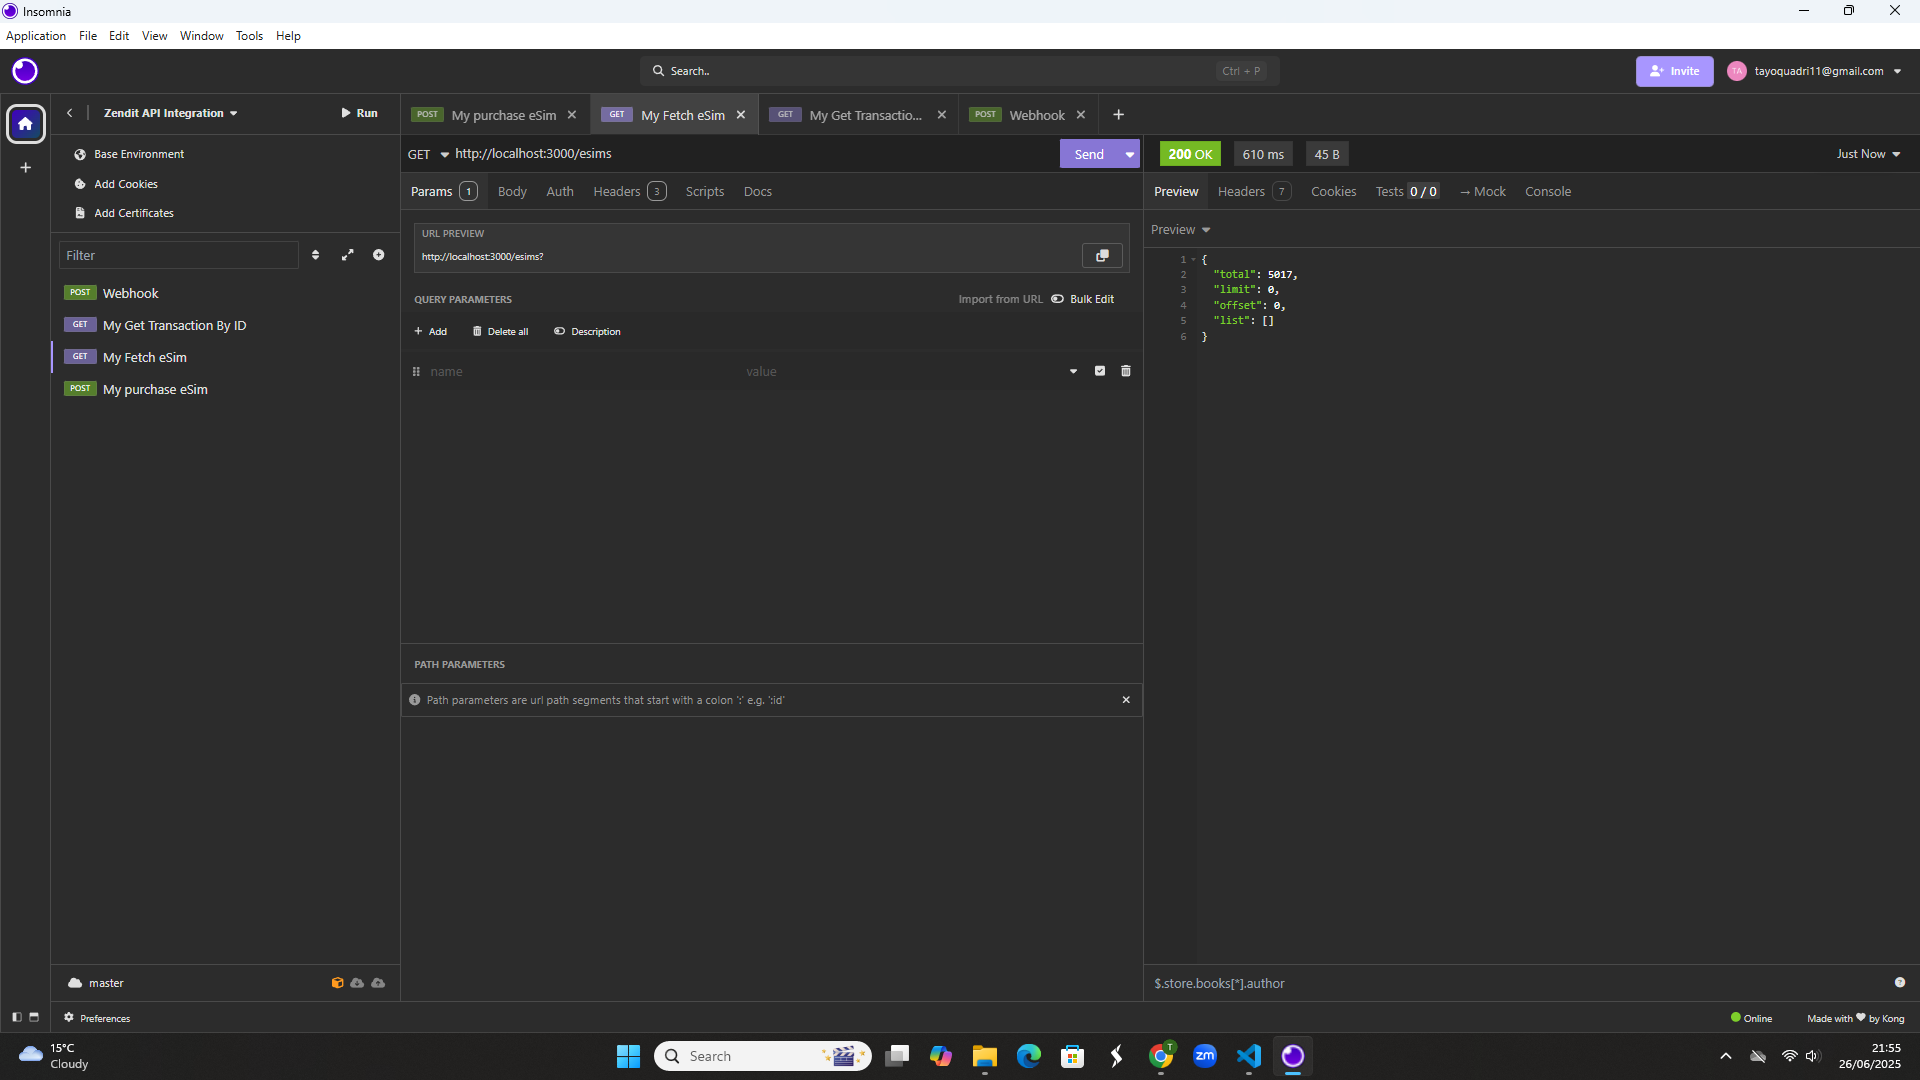
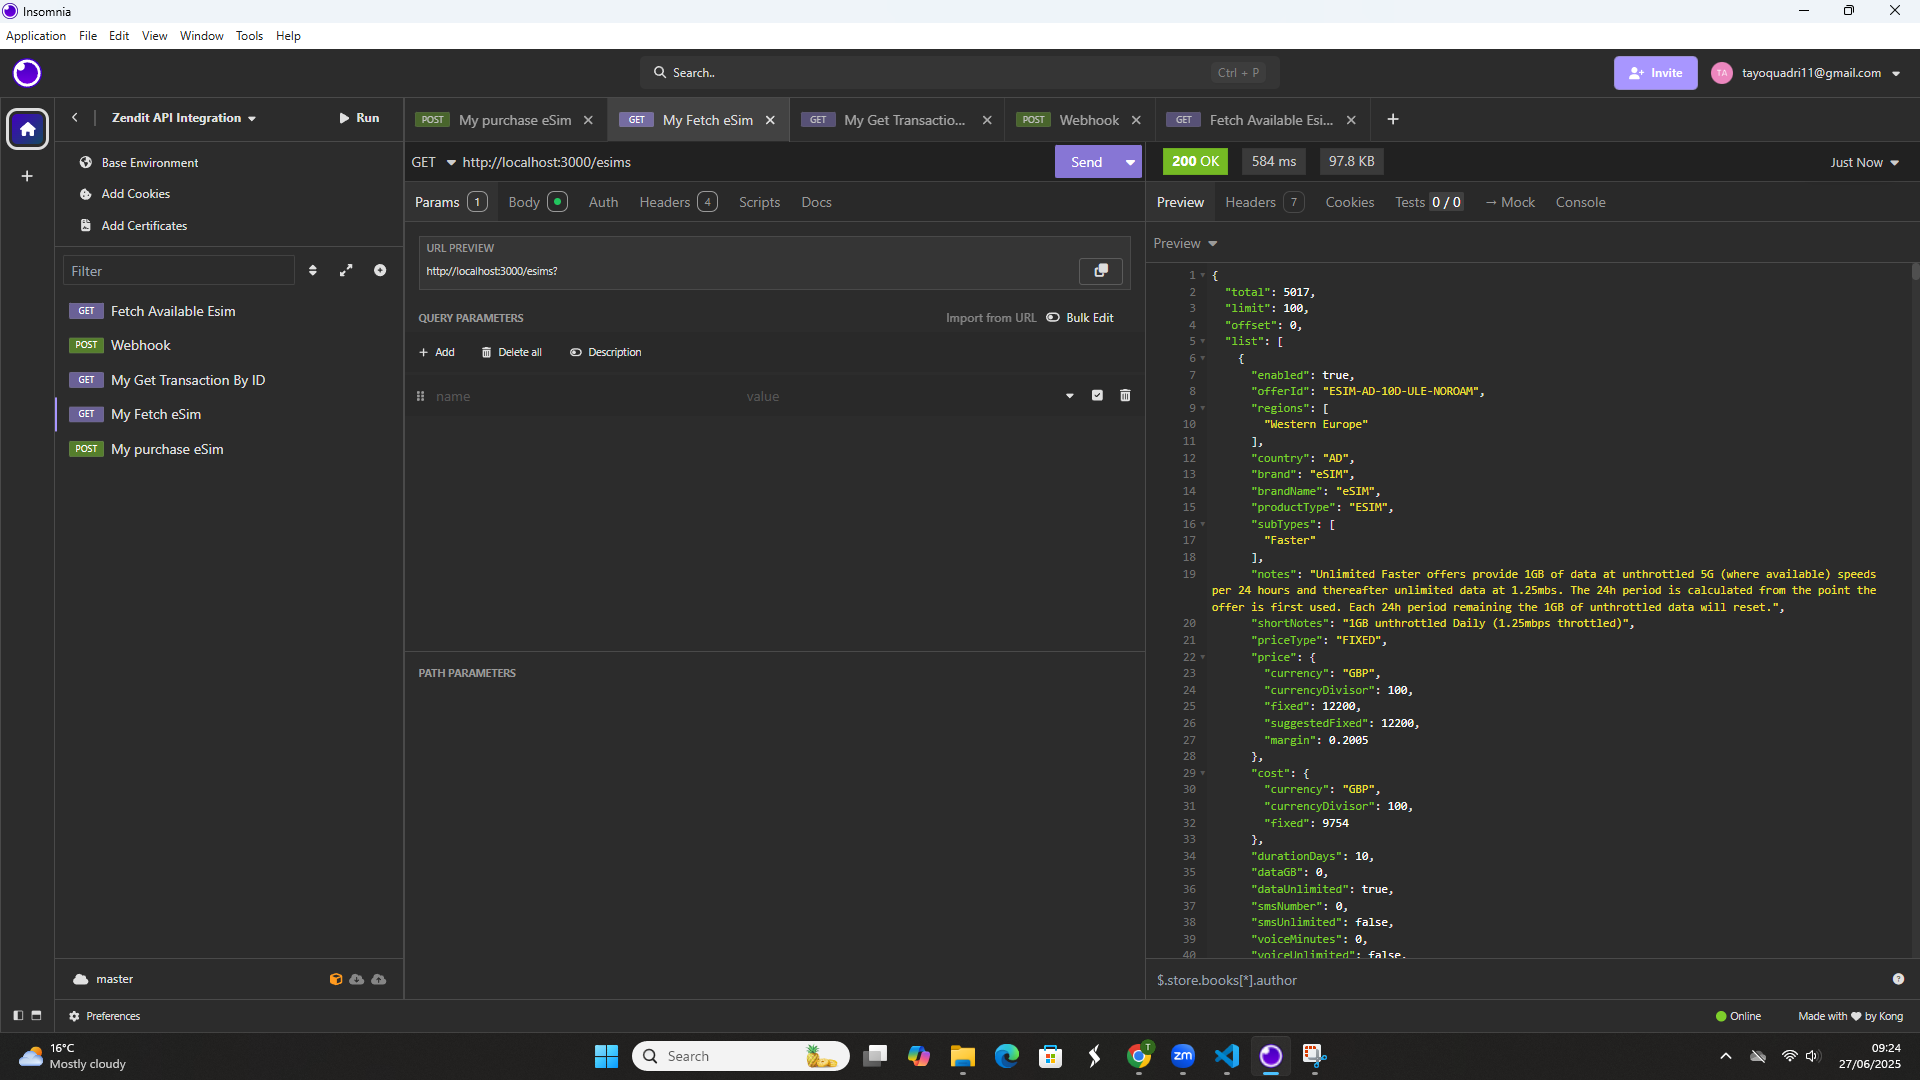
added more pictures

diff --git a/controllers/esim.controller.js b/controllers/esim.controller.js
@@ -5,13 +5,12 @@ import {
 } from '../services/zenditService.js';
 const fetchEsimController = async (req, res) => {
   try {
-    const limit = req.query.limit || 0;
-    const offset = req.query.offset || 0;
+    const limit = req.query._limit || 100;
+    const offset = req.query._offset || 0;
     const country = req.query.country;
     const brand = req.query.brand;
 
     const esims = await fetchEsims({ limit, offset, country, brand });
-    console.log('Available eSIMs:', esims);
     res.json(esims);
   } catch (err) {
     console.error(' Failed to fetch eSIMs:', err.message);

diff --git a/Readme.md b/Readme.md
@@ -29,7 +29,7 @@ If country and/or brand are provided, they are included as filters in the reques
 
 If no query parameters are provided, default values are automatically applied:
 
-req.query.limit || 0;
+req.query.limit || 100;
 
 req.query.offset || 0;
 
@@ -37,7 +37,7 @@ req.query.offset || 0;
 
 ✅ Get all eSIMs (default pagination)
 GET `/esims`
-![alt text](default_query.png)
+![alt text](default_query-1.png)
 
 ✅ Custom pagination
 GET `/esims?_limit=200&_offset=100`
@@ -48,12 +48,15 @@ GET `/esims?_limit=100&_offset=0&country=AE`
 ![alt text](filterbyCountry.png)
 
 ✅ Filter by brand
-GET `/esims?limit=200&offset=5&brand=eSIM`
+GET `/esims?_limit=200&_offset=5&brand=eSIM`
 ![alt text](filter_by_brand.png)
 
 ✅ Filter by country & brand
-GET `/esims?limit=10&offset=5&country=AE&brand=eSIM`
-![alt text](filter_by_country_brand.png)
+
+GET `/esims?_limit=200&brand=eSIM&country=US`
+![alt text](filter_by_brand&country.png)
+
+http://localhost:3000/esims?_limit=200&brand=eSIM&country=US
 ===============================================================================================================
 ===============================================================================================================
 
